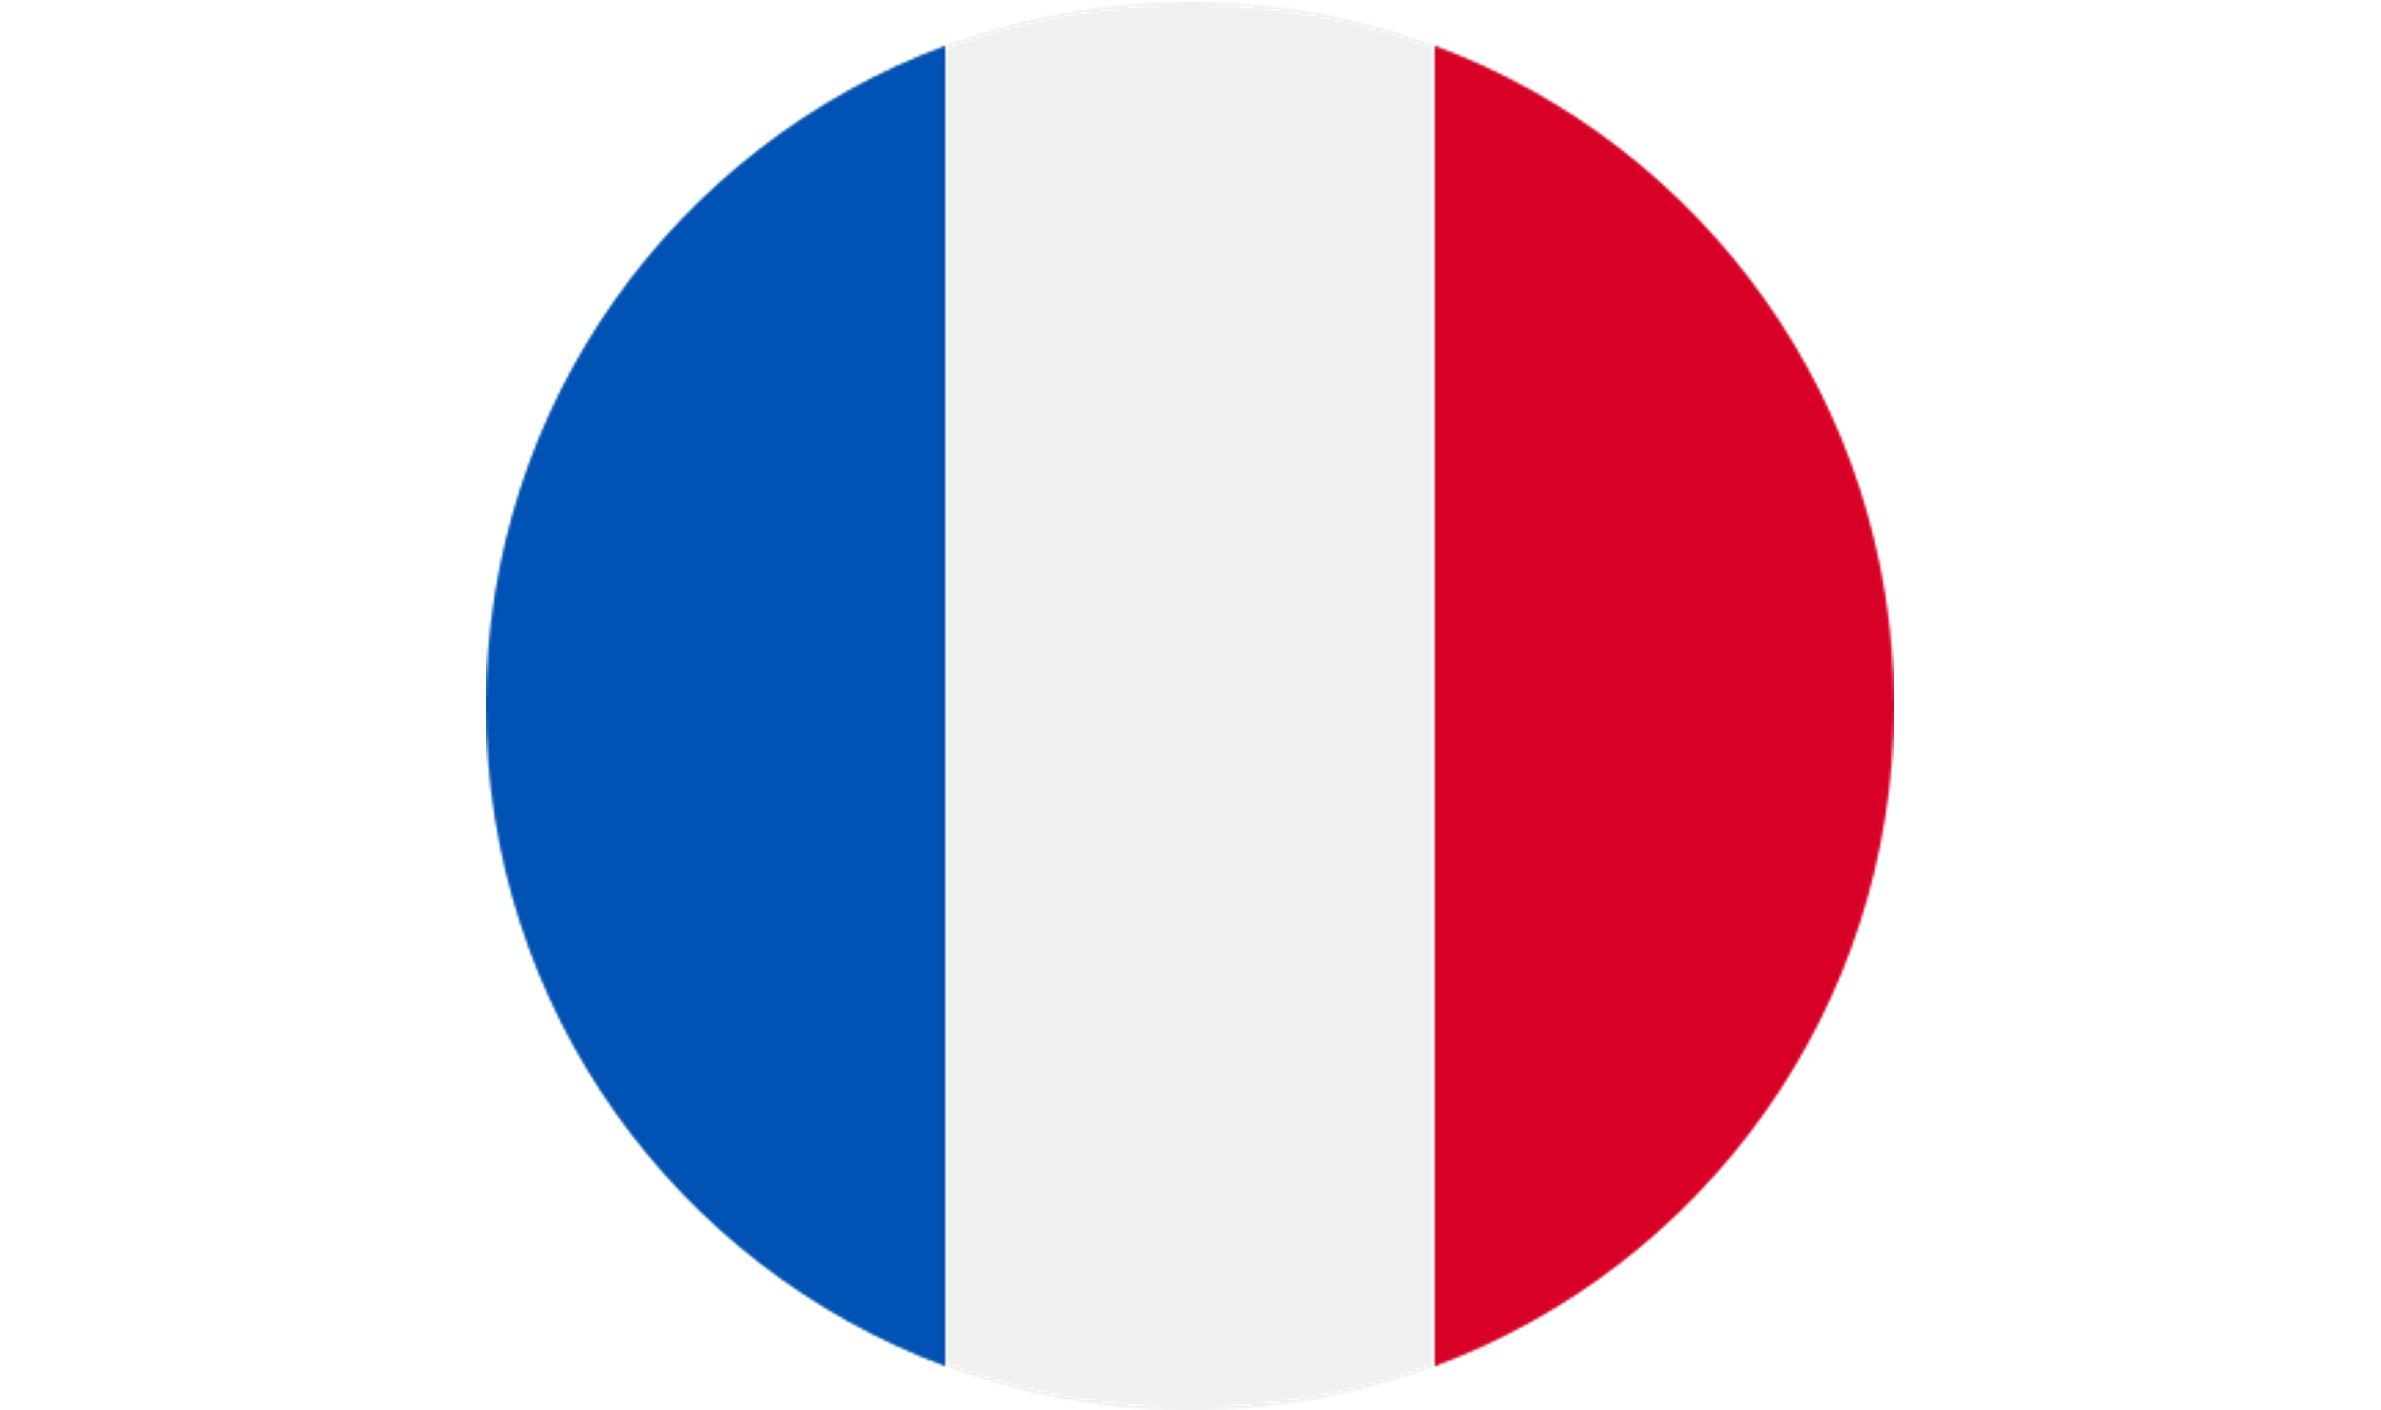
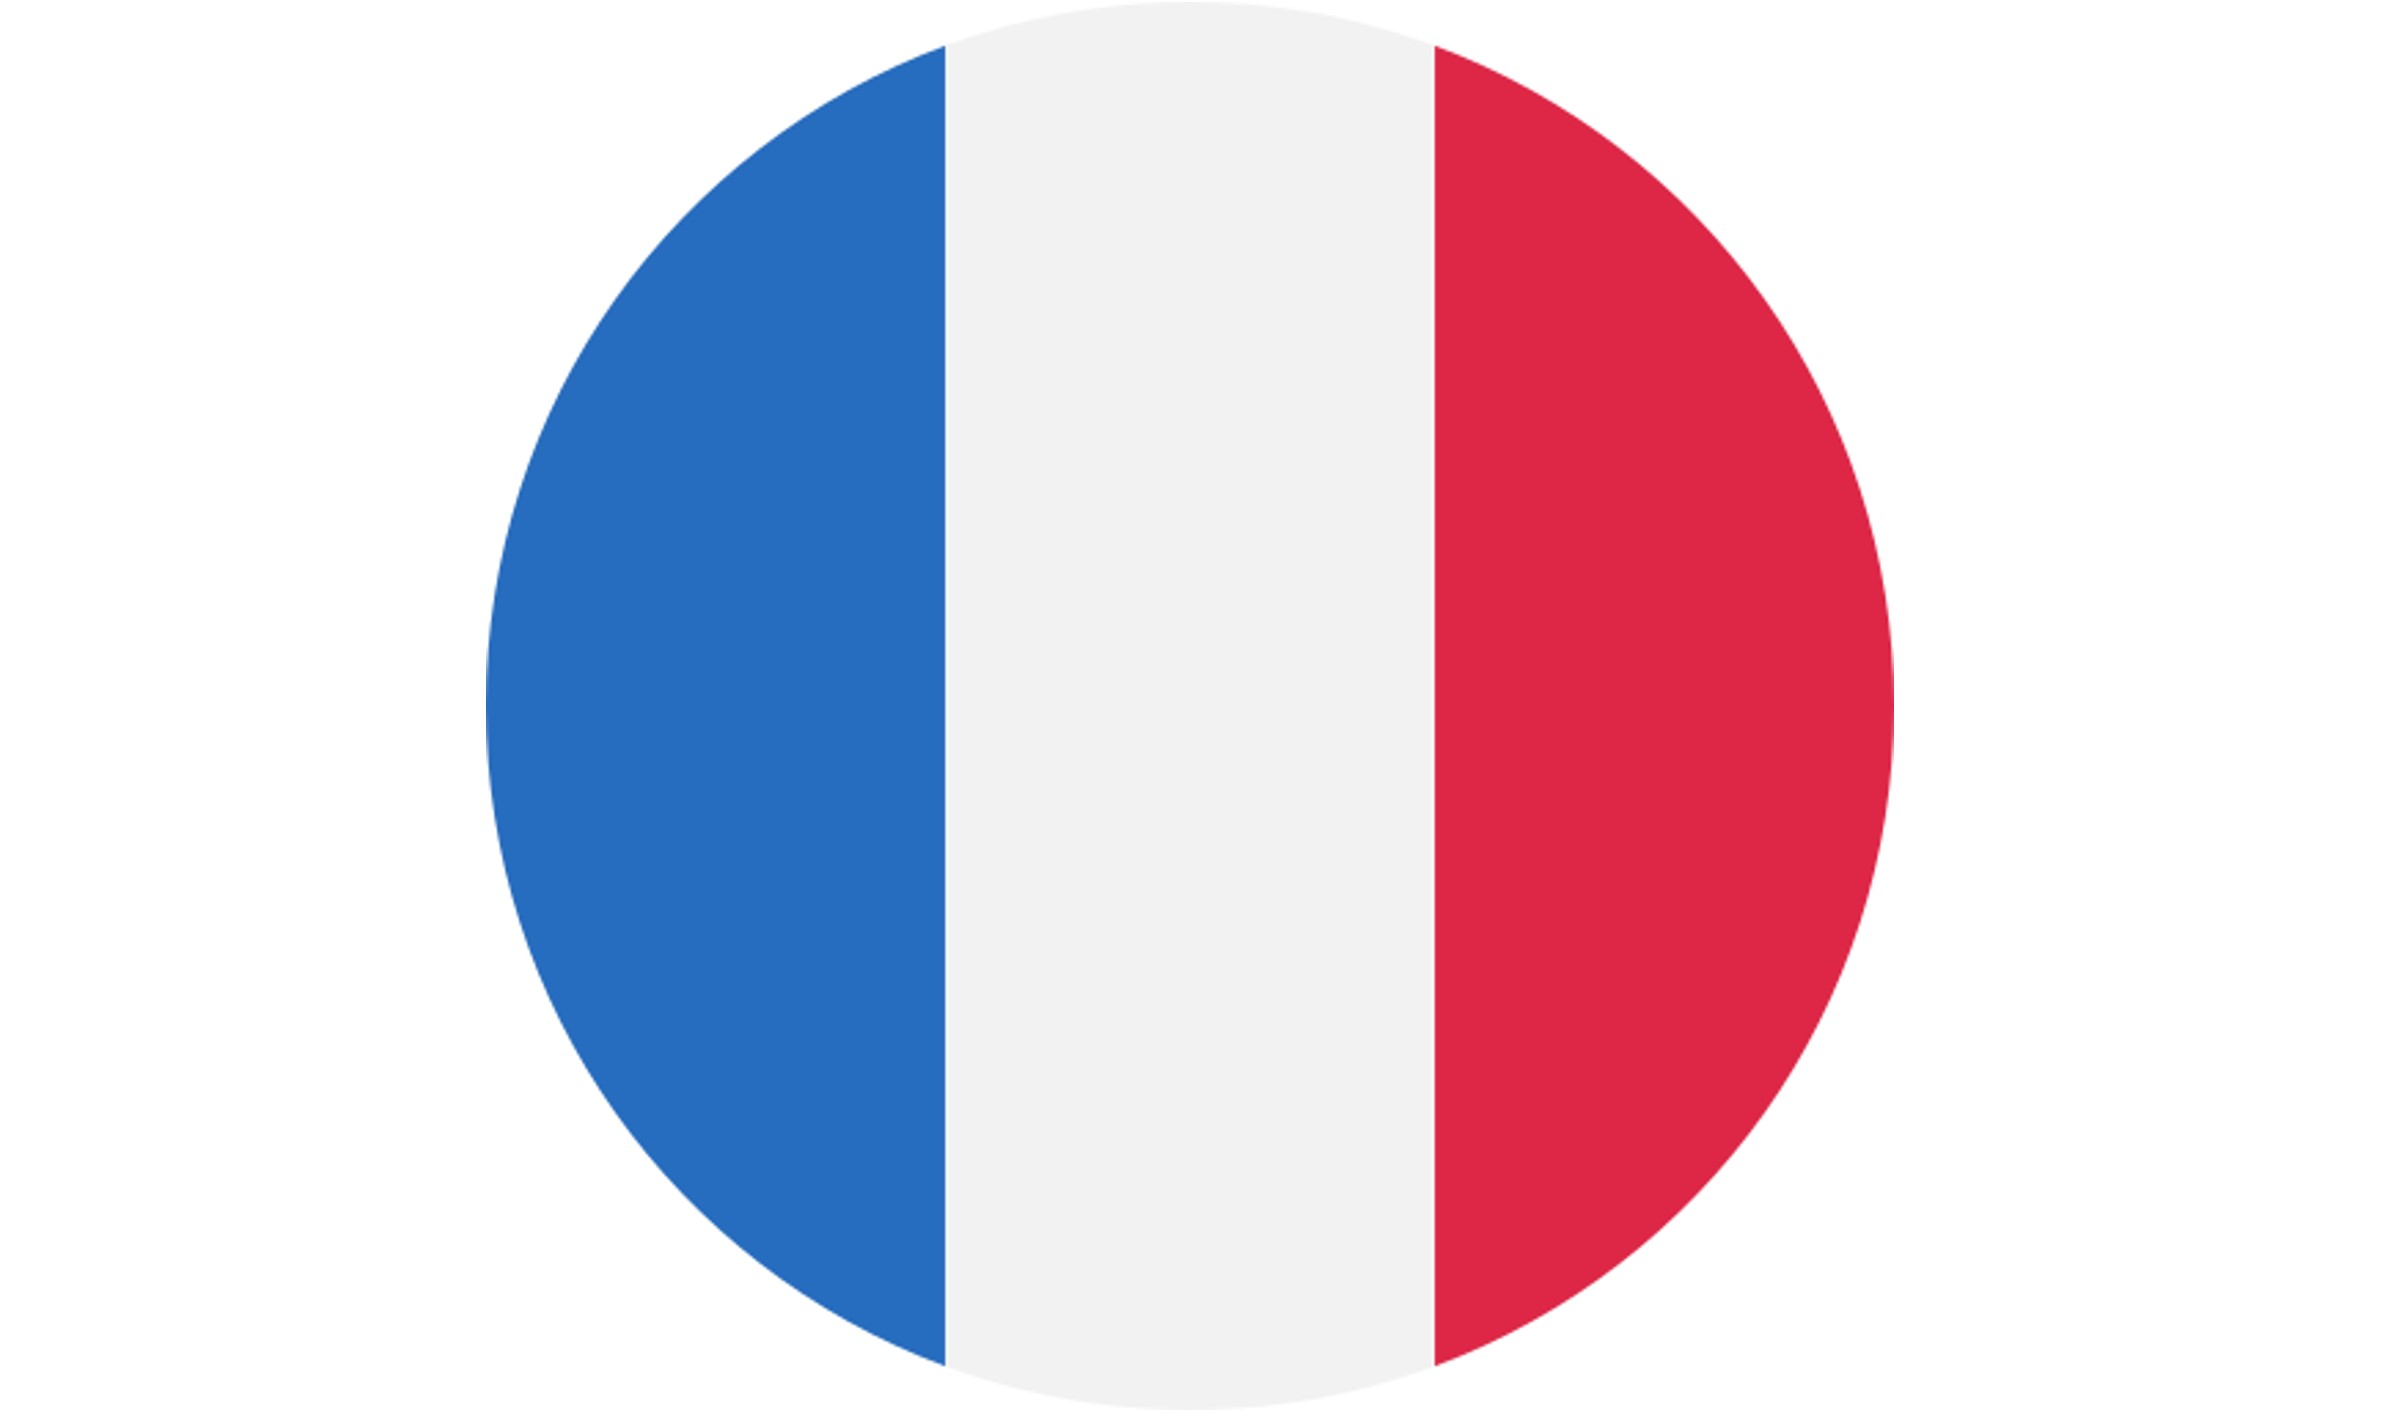
adjusting flags, cv header, titles and section division

Changed region(s): [[0.5905, 0.0312, 0.8081, 0.9674], [0.1865, 0.0312, 0.404, 0.9674]]

diff --git a/index.html b/index.html
@@ -19,7 +19,7 @@
 					<a href="#" class="image avatar"><img src="images/portrait.png" alt="" /></a>
 					<h1><strong>Lorenzo Taddei</strong>, Data analyst | 
 					Statistics and Marketing background | 
-					Msc Marketing Analytics, Tilburg University</h1>
+					MSc Marketing Analytics, Tilburg University</h1>
 				</div>
 			</header>
 
@@ -44,7 +44,9 @@
 
 				<!-- Two -->
 					<section id="two">
-						<h2>Analytics Work</h2>
+						<header class="major">
+							<h2>Analytics Work</h2>
+						</header>
 						<div class="row">
 							<!-- MODAL BOX -->
 							<article class="col-6 col-12-xsmall work-item">
@@ -214,48 +216,32 @@ Overall, this thesis makes a significant contribution to the field of chess rese
 								</div>
 							</article>
 						-->	<!-- END MODAL BOX -->
-
 						</div>
-					</section>
-					
-					<!-- three   ------    ADD END OF COMMENT TO ACTIVATE HERE            
 
-					<section id="three">
-						<h2>Other Works</h2>
-						<div class="row">
-							<!-- MODAL BOX     ---------     ADD END OF COMMENT TO ACTIVATE HERE
-							<article class="col-6 col-12-xsmall work-item">
-								<img src="images/section2/art1.jpg" alt="" class="modalThumbnail" onclick="openModal('modal1')"/>
-								<h3>Customer Lifetime Value in mobile gaming</h3>
-								<p>(SQL, RStudio)</p>
-								<!-- Modal         ---------         ADD END OF COMMENT TO ACTIVATE HERE
-								<div id="modal1" class="modal">
-									<div class="modal-content">
-										<h2>MSc thesis<br> Customer Lifetime Value prediction in mobile freemium games. The Introduction user information and game specific covariates<span class="close" onclick="closeAllModal()">&times;</span></h2>
-										<img src="images/thumbs/01.jpg" alt="" />
-										<p>We are experiencing an exceptionally high number of requests.<br>
-										Please, come back to this page after some time.
-										</p>
-										Other text</p>
-									</div>
-								</div>
-							</article>
-						</section>  -->
-							
-					<!-- three   TEMPORARY  -->            
 
-					<section id="three">
 						<h2>Work in Progress</h2>
 						<p>
 						The projects displayed on the website are a selection of my most significant work and are intended to showcase my skills and field of expertise. Additional projects will be posted soon. <br><br> 
 						Note that the existing projects of the portfolio do not include the full code or complete information as they may be confidential. Please contact me if you want to know more about them.
 						</p>
-					</section> 	
+					</section>
+					      
+
+					<!--<section class="three">    --- other way of deploying work in progress disclaimer
+						
+						<h2>Work in Progress</h2>
+						<p>
+						The projects displayed on the website are a selection of my most significant work and are intended to showcase my skills and field of expertise. Additional projects will be posted soon. <br><br> 
+						Note that the existing projects of the portfolio do not include the full code or complete information as they may be confidential. Please contact me if you want to know more about them.
+						</p>
+					</section> 	-->
 
 
 
 					<section id="three">
-						<h2>Skills & Software</h2><br>
+						<header class="major">
+							<h2>Skills & Software</h2>
+						</header><br>
 						<img src="images/section3/barplot2.png" alt="" id="section3img"/><br><br>
 						<div class="row">
 							<div class="column">
@@ -302,8 +288,8 @@ Overall, this thesis makes a significant contribution to the field of chess rese
 						<ul class="icons">
 							<li><img src="images/section3/uk.jpg" id='flag' alt="">proficient </a></li>
 							<li><img src="images/section3/ita.jpg" id='flag' alt="">native</a></li>
-							<li><img src="images/section3/spa.jpg" id='flag2' alt="">intermediate </a></li>
-							<li><img src="images/section3/fra.jpg" id='flag2' alt="">intermediate </a></li>
+							<li><img src="images/section3/spa.jpg" id='flag' alt="">intermediate </a></li>
+							<li><img src="images/section3/fra.jpg" id='flag' alt="">intermediate </a></li>
 						</ul>
 					</section> 	
 						
@@ -710,14 +696,16 @@ print 'It took ' + i + ' iterations to sort the deck.';</code></pre>
 							<!-- Modal -->
 							<div id="modalresume" class="modal">
 								<div class="modal-content">
-									<span class="close" onclick="closeAllModal()">&times;</span></h2>
-									<figure class="resume"><img src="images/cv/CV.jpg" alt="" /></figure>
+									<h1>Curriculum Vitae<span class="close" onclick="closeAllModal()">&times;</span></h1>
+									<figure class="resume"><img src="images/cv/CV.jpg" alt="" /></figure> <br>
+									<a href="images/cv/CV.pdf" > Click here to download the PDF </a><br><br>
+
 								</div>
 							</div>
 					</ul>
-					<ul class="copyright">
+					<!-- <ul class="copyright">
 						<li>&copy; Untitled</li><li>Design: <a href="http://html5up.net">HTML5 UP</a></li>
-					</ul>
+					</ul> -->
 				</div>
 			</footer>  			
 

diff --git a/assets/css/main.css b/assets/css/main.css
@@ -1792,6 +1792,7 @@ input, select, textarea {
 
 	header.major h2 {
 		font-size: 2em;
+		color: #585858;
 	}
 
 /* Form */
@@ -3529,16 +3530,14 @@ input, select, textarea {
 	line-height:0.7cm;
 }
 
+
+
+/*languages part */
+
 #three #flag{
 	max-width:2.2cm;
 }
 
-#three #flag2{
-	max-width:2.2cm;
-	opacity:0.8;
-}
-
-/*languages part */
 #three ul.icons {
 	cursor: default;
 	list-style: none;
